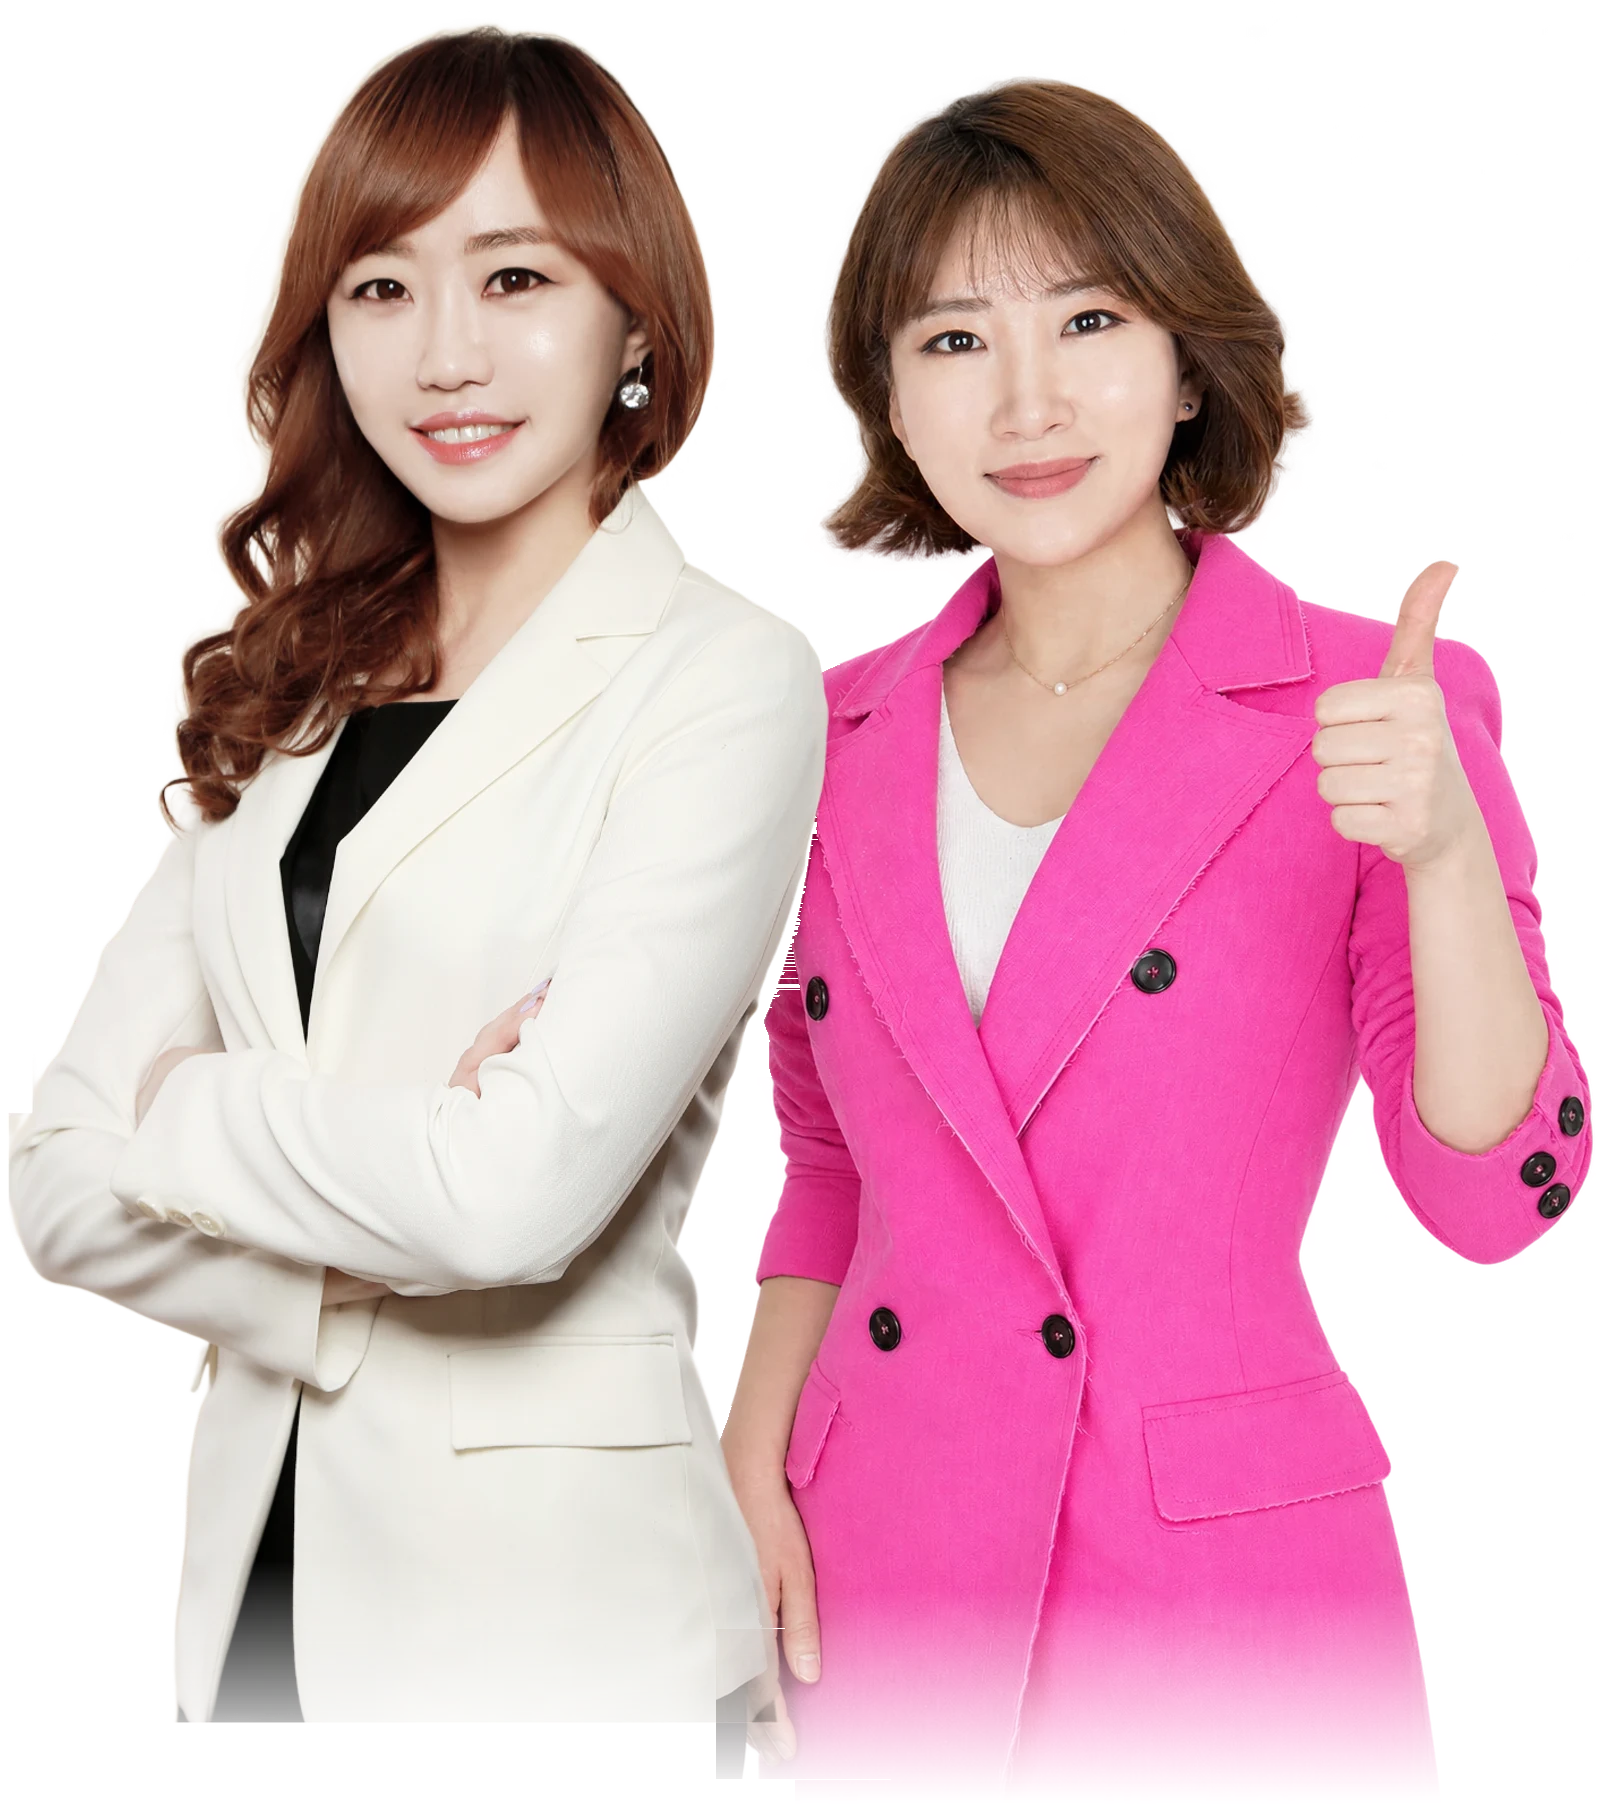
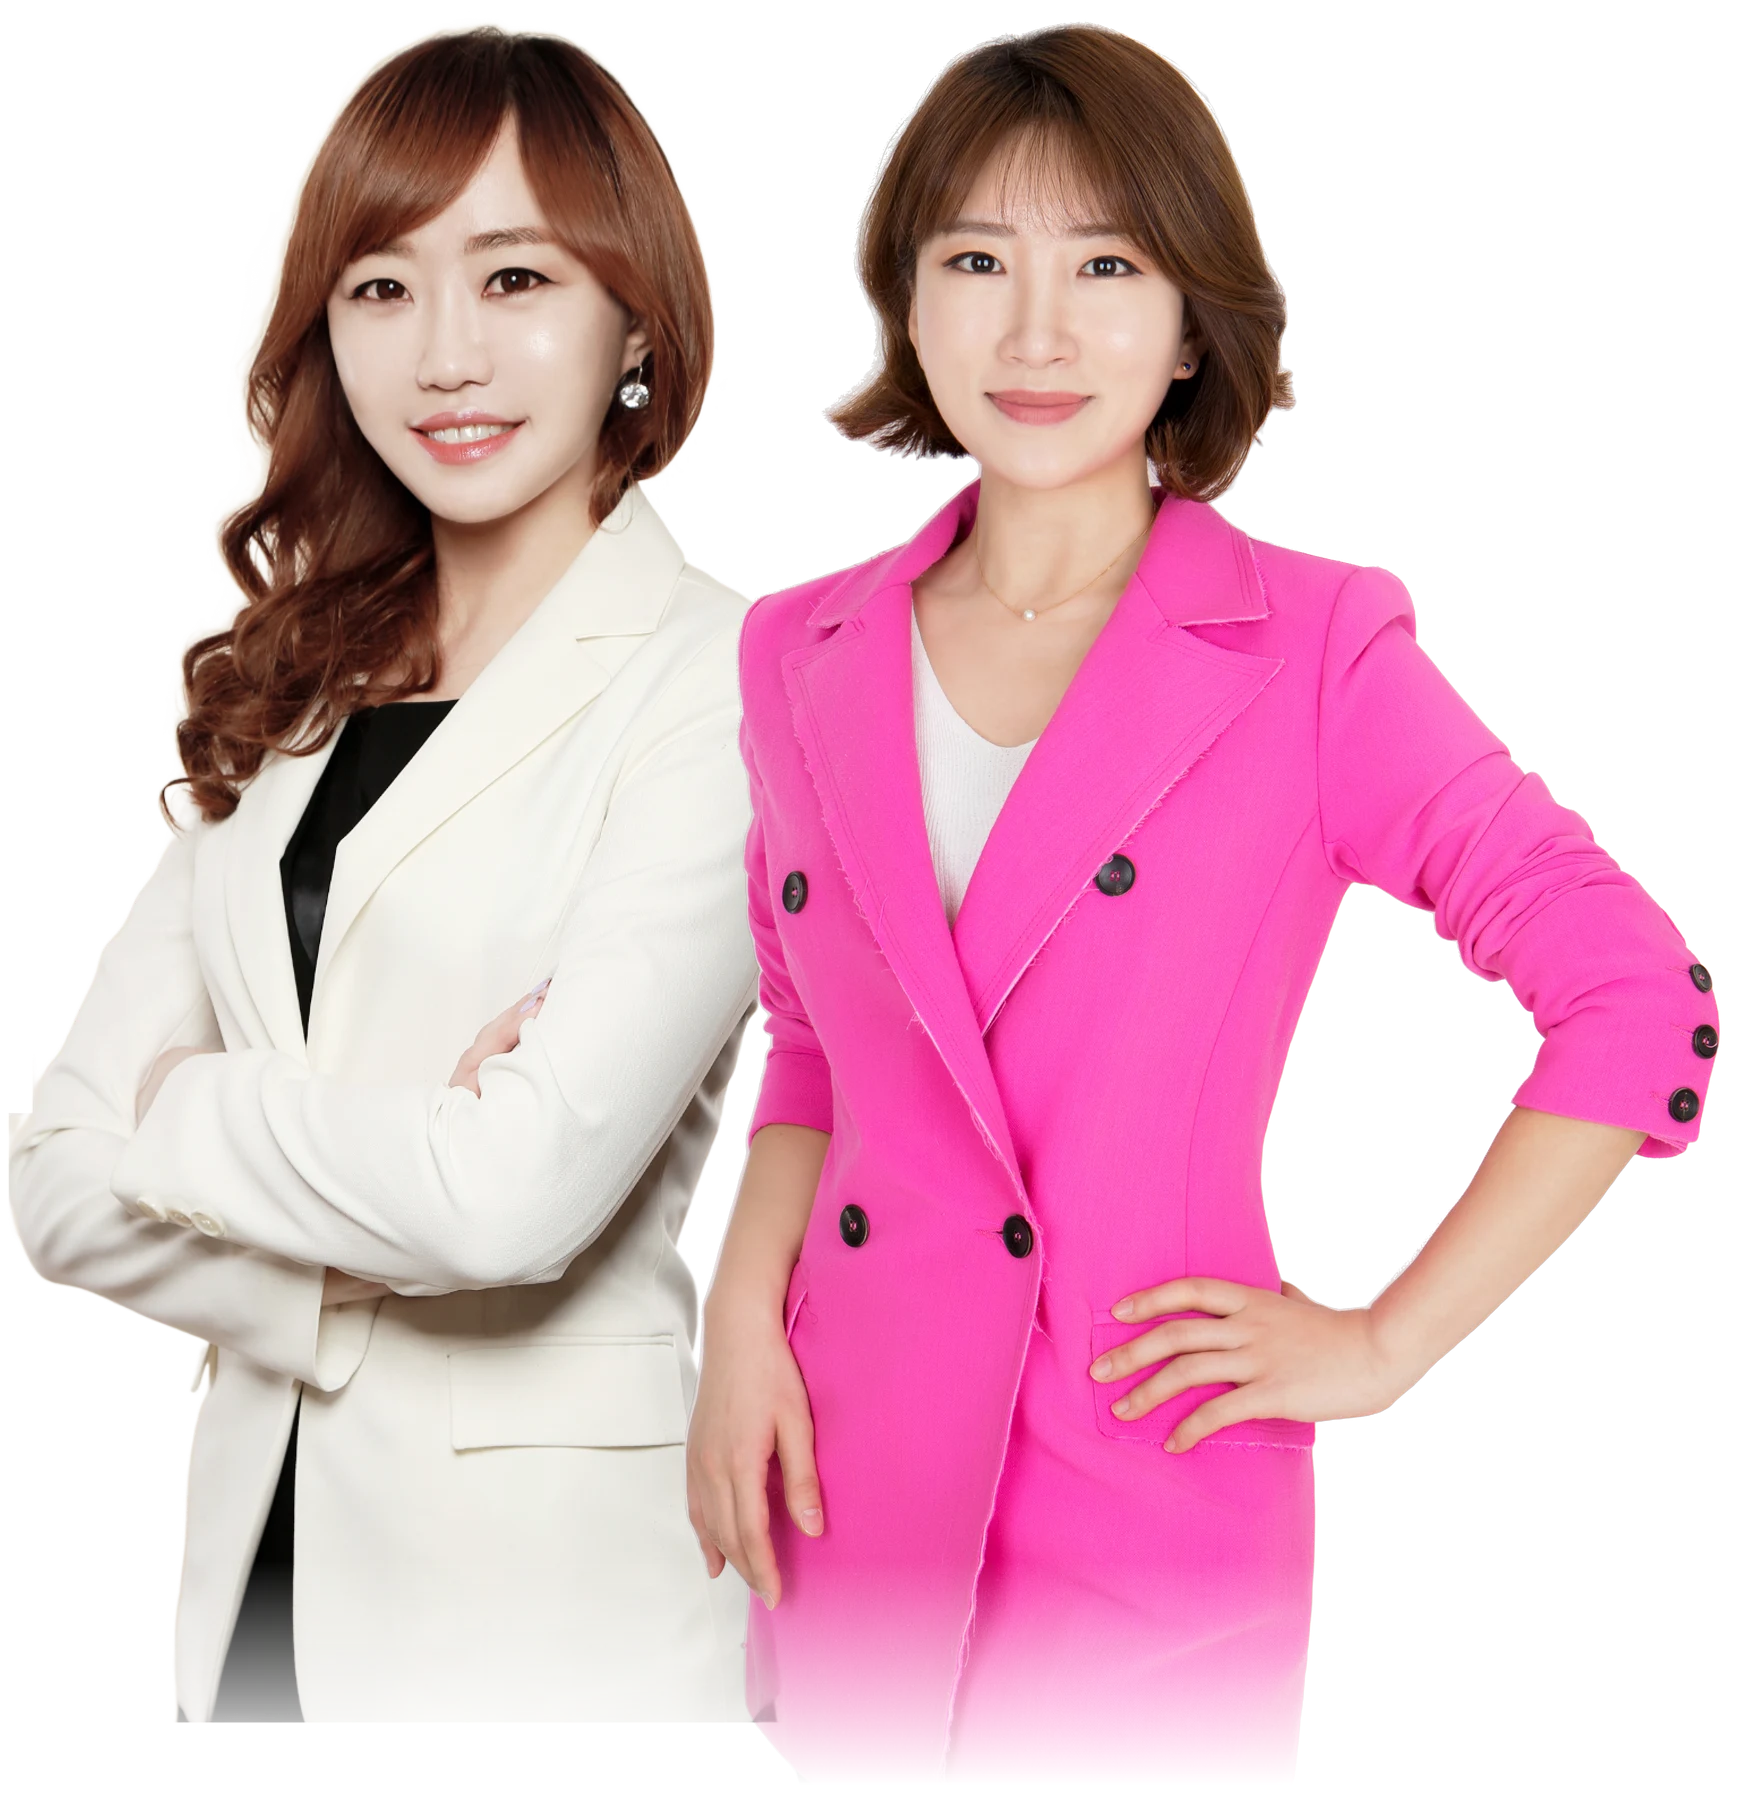
랜딩 히어로 두 분 모두 원본 실사로 + 강사 소개 학력 크게 · 수상 문구의 P어학원 삭제 (Alan 2026-10-01)
- 히어로 투샷: 이혜영(팔짱)·이영수(허리에 손) 강사프로필 원본을 머리 높이 445px 로 똑같이 맞춰 sharp 로 합쳤다 (1743×1806).
  참고 사진처럼 이영수가 오른쪽 살짝 앞. 이영수 누끼는 배경을 복원해 힉스필드 remove_background 로 다시 따고(결과가 줄어 나와
  AI 알파만 원본 크기로 키워 씌움), 가장자리의 흰 배경 몫을 빼 분홍 바탕에서 테두리가 안 남게 했다 → 강사프로필/이영수_누끼_2026-10-01.png.
  public/instructors/lee-yeongsu.png 도 같은 컷으로.
- 강사 소개: 학력 줄을 흰 알약(분홍 세로선, text-base/lg bold)으로 키웠다. 수상 문구 "P어학원 …" → 학원 이름 없이.
- CLAUDE.md 히어로·강사 소개 블록 갱신.

diff --git a/src/lib/site.ts b/src/lib/site.ts
@@ -79,7 +79,7 @@ export const site = {
    * 강사 소개 (2026-09-17 Alan 제공 — 소개 슬라이드 2장을 옮겨 적었다).
    * `tagline`·`education`·`years`·`highlights`·`awards` 가 랜딩 강사 소개의 설명 블록이 된다.
    * **문구는 Alan 이 준 그대로다.** 고친 것은 두 가지뿐 — 오타 `멤돈다` → `맴돈다`, 원본의 `**`(각주 표시, 각주 없음) 삭제.
-   * `P어학원` 은 원본 표기 그대로 (이전 학원 이름을 가린 것).
+   * 원본의 `P어학원`(이전 학원 이름을 가린 것)은 2026-10-01 Alan 요청으로 뺐다 — "최우수 강사 선정" 처럼 학원 이름 없이 적는다.
    */
   instructors: [
     {
@@ -102,7 +102,7 @@ export const site = {
           points: ["체계적인 반복으로 숨만 쉬고 있어도 점수가 오른다!", "토익 LC 만점 수강생이 인정한 압도적인 전달력과 몰입도 높은 강의"],
         },
       ],
-      awards: ["P어학원 최우수 강사 선정", "P어학원 수강생이 직접 뽑은 토익부문 최우수 강사 선정", "지인추천 압도적인 강사추천도"],
+      awards: ["최우수 강사 선정", "수강생이 직접 뽑은 토익부문 최우수 강사 선정", "지인추천 압도적인 강사추천도"],
       photo: { src: "/instructors/lee-hyeyoung.png", width: 827, height: 1500 },
       caricatures: [
         // point: 윙크하며 왼쪽을 가리킨다 — 출석 QR 포스터(QR 을 가리킴)와 랜딩 시간표 옆
@@ -130,7 +130,7 @@ export const site = {
           points: ["시험장에서 쌤 목소리가 귓가에 맴돈다!", "무엇을 버려야 하는지도 알려준다!", "수강생들이 인정한 미친 적중률을 자랑하는 강의"],
         },
       ],
-      awards: ["P어학원 최우수 강사 선정", "지인추천 압도적인 강사추천도"],
+      awards: ["최우수 강사 선정", "지인추천 압도적인 강사추천도"],
       photo: { src: "/instructors/lee-yeongsu.png", width: 1233, height: 1500 },
       caricatures: [
         // thumbsup: 엄지척 + 휴대폰 — 출석 QR 포스터(QR 을 찍음)와 랜딩 CTA 배너

diff --git a/src/components/landing/Hero.tsx b/src/components/landing/Hero.tsx
@@ -97,16 +97,16 @@ export function Hero() {
           </ul>
         </div>
 
-        {/* 두 강사 투샷. 왼쪽 이혜영은 **실제 사진 그대로**(2026-09-30 Alan — "왼쪽에 혜영쌤 이 사진으로 교체"),
-            오른쪽 이영수는 2026-09-17 힉스필드 투샷의 엄지척 컷을 그대로 두고 sharp 로 다시 합쳤다 — CLAUDE.md "히어로 강사 투샷".
-            여기만 실사이고 다른 강사 그림은 전부 캐리커처다 */}
+        {/* 두 강사 투샷 — **두 분 모두 강사프로필 원본 실사**(2026-10-01 Alan — "내가 준 원본 사진으로, 높이·얼굴 크기를 맞춰서").
+            머리 높이를 똑같이(445px) 맞춰 sharp 로 합쳤다. 왼쪽 이혜영 팔짱, 오른쪽 이영수 허리에 손 — 참고 사진의 구도.
+            CLAUDE.md "히어로 강사 투샷". 여기만 실사이고 다른 강사 그림은 전부 캐리커처다 */}
         <div className="relative mx-auto w-full max-w-md md:max-w-lg">
           <div aria-hidden className="absolute left-1/2 top-1/2 -z-10 h-64 w-64 -translate-x-1/2 -translate-y-1/2 rounded-full bg-brand-300/40 animate-pulse-ring" />
           <div aria-hidden className="absolute left-1/2 top-1/2 -z-10 h-64 w-64 -translate-x-1/2 -translate-y-1/2 rounded-full bg-brand-300/30 animate-pulse-ring" style={{ animationDelay: "1.2s" }} />
           <Image
             src="/illustrations/hero-instructors.webp"
             alt="역전토익 대표 강사 이혜영(LC)과 이영수(RC)"
-            width={1620}
+            width={1743}
             height={1806}
             priority
             sizes="(max-width: 768px) 90vw, 40vw"

diff --git a/src/components/landing/Instructors.tsx b/src/components/landing/Instructors.tsx
@@ -67,7 +67,11 @@ function Intro({ t, tone }: { t: Instructor; tone: (typeof TONE)[Instructor["par
       <h3 className="mt-4 text-2xl font-black leading-snug tracking-tight text-ink sm:text-3xl lg:text-[2.1rem]">
         <Tagline text={t.tagline} mark={t.taglineMark} />
       </h3>
-      <p className="mt-2 text-sm font-semibold text-slate">{t.education}</p>
+      {/* 학력 — 캐치프레이즈 바로 아래 또렷하게 (2026-10-01 Alan "학력이 눈에 안 띄어서 좀 더 크게"). 작은 회색 한 줄이었다 */}
+      <p className="mt-3 inline-flex items-center gap-2 rounded-xl border border-brand-100 bg-paper px-3.5 py-2 text-base font-bold text-ink shadow-soft sm:text-lg">
+        <span aria-hidden className="h-5 w-1 shrink-0 rounded-full bg-brand-500" />
+        {t.education}
+      </p>
 
       {/* 강점. 카드가 차례로 뜨고, 카드 안의 줄이 그 뒤를 잇는다 */}
       <div className="stagger mt-6 grid gap-3 sm:grid-cols-2">

diff --git a/CLAUDE.md b/CLAUDE.md
@@ -473,18 +473,20 @@ npx tsc --noEmit && npx eslint src && npx vitest run && npm run build
   - 움직임 셋: 메달이 한 번 튀어 오르고(`animate-pop`) · 메달 뒤 금빛 고리가 퍼지고(`animate-pulse-ring`) · 배지를 빛줄기가 3.6초마다 가로지른다(`.rank-sweep`, globals.css).
     움직임 줄이기면 빛줄기는 끈다. 빛줄기는 **시작 전에도 왼쪽 밖에 있어야** 흰 띠가 멈춰 보이지 않는다(기본 `transform`).
   - 같은 말이 **헤드라인 띠(`Spotlight` 의 `WORDS`)와 강점 카드(`Features`)** 에도 있다 — 문구를 바꾸면 세 곳을 같이 고칠 것
-- **히어로 강사 투샷** (2026-09-17 Alan — "저 여자 이미지 말고 우리 강사님 두분이 같이 있는 이미지로", 시안 3개 중 **시안 1** →
-  2026-09-30 Alan "왼쪽에 혜영쌤 이 사진으로 교체"). 랜딩 히어로 오른쪽은 **두 강사 투샷 컷** `public/illustrations/hero-instructors.webp`
-  (1620×1806, 투명 배경, 아래 12% 는 배경으로 녹아드는 페이드) 다. **왼쪽 이혜영은 실제 사진 그대로**(강사프로필 `이혜영.png`, 팔짱 컷)이고
-  **오른쪽 이영수는 2026-09-17 힉스필드 투샷(`gpt_image_2_5` · 원본 두 장 `image_references`)의 엄지척 컷**을 남긴 것이다 —
-  AI 가 그린 이혜영 얼굴이 실물과 달라 Alan 이 실사로 바꿨다. **다시 만들 때 이혜영을 AI 로 그리지 말 것** — 실사를 쓰라는 것이 요점이다.
-  **원본 `이혜영.png` 의 누끼는 그대로 쓰지 않는다** (같은 날 Alan "머리카락 누끼가 제대로 안 따져서 이상하게 나와") — 원본 컷은 머리 가장자리가
-  12~16px 흐릿하고 흰색과 섞여 있어 분홍 바탕에서 테두리가 생긴다. 원본 PNG 의 알파 0 영역에 스튜디오 배경 픽셀이 남아 있어 알파를 버려 사진을 되살린 뒤
-  힉스필드 `remove_background` 로 다시 땄다 → `강사프로필/이혜영_누끼_2026-09-30.png` (같은 1200×1563 틀). `public/instructors/lee-hyeyoung.png` 도 이 컷으로 다시 맞췄다.
-  sharp 로 합쳤다: 옛 투샷에서 줄마다 이영수 층을 뽑고 — 두 사람 사이 **30px 이상의 투명 틈**의 가운데를 경계로 하되 **틈이 오른쪽 끝까지 열린 줄(두 머리 위쪽)도 틈으로 친다**
-  (안 그러면 머리카락 사이 미세한 빈틈을 경계로 잡아 옛 AI 머리 조각이 정수리에 남는다 — 첫 배포 688fb35 에서 실제로 그랬다), 틈이 없는 줄은 첫 분홍 픽셀(이영수 재킷) —
-  새 누끼 이혜영을 머리 크기(393→445px)·얼굴 중심(x 470)에 맞춰 **앞에** 얹은 뒤 같은 구간(y 1560→1785)을 페이드했다. 이영수는 20px 오른쪽으로 밀어 어깨가 살짝 겹친다.
-  확인은 이영수 층에 x<650 불투명 픽셀이 0 이어야 하고, 정수리·머리끝을 연분홍 위에 확대해 본다.
+- **히어로 강사 투샷** (2026-09-17 Alan — "저 여자 이미지 말고 우리 강사님 두분이 같이 있는 이미지로" → 2026-09-30 "왼쪽에 혜영쌤 이 사진으로 교체" →
+  **2026-10-01 "내가 준 원본 사진으로. 높이를 맞추고 얼굴 크기도 똑같이. 영수쌤 프로필을 약간 키워야 사람 비율이 맞다"** + 참고 사진 `바탕 화면/KakaoTalk_20261001_095112275.png`).
+  랜딩 히어로 오른쪽은 **두 강사 투샷 컷** `public/illustrations/hero-instructors.webp`(1743×1806, 투명 배경, 아래 12% 는 배경으로 녹아드는 페이드)이고
+  **두 분 모두 강사프로필 원본 실사**다 — 왼쪽 이혜영 팔짱(`이혜영.png`), 오른쪽 이영수 허리에 손(`이영수_핑크.png`), 이영수가 살짝 앞.
+  (2026-09-17~30 에는 힉스필드가 그린 AI 투샷 → 왼쪽만 실사 순으로 거쳐 왔다. **다시 만들 때 두 분을 AI 로 그리지 말 것** — 실사를 쓰라는 것이 요점이다.)
+  - **원본 누끼는 그대로 쓰지 않는다** (2026-09-30 Alan "머리카락 누끼가 제대로 안 따져서 이상하게 나와") — 원본 컷은 머리 가장자리가 흐릿하고 흰색과 섞여
+    분홍 바탕에서 테두리가 생긴다. 원본 PNG 의 알파 0 영역에 스튜디오 배경 픽셀이 남아 있어 **알파를 버려 사진을 되살린 뒤 힉스필드 `remove_background` 로 다시 땄다**.
+    이혜영은 결과를 그대로(`강사프로필/이혜영_누끼_2026-09-30.png`, 1200×1563), **이영수는 원본이 3340×5010 이라 결과가 1365×2047 로 줄어 나오므로
+    AI 알파만 원본 크기로 키워 원본 RGB 에 씌우고, 반투명 가장자리 색에서 흰 배경 몫을 뺐다**(un-blend `C = (Cobs − (1−a)·B)/a`, B = 246·244·244 —
+    안 빼면 머리 둘레에 흰 실선이 남는다) → `강사프로필/이영수_누끼_2026-10-01.png`. `public/instructors/lee-{hyeyoung,yeongsu}.png` 도 이 컷으로 다시 맞췄다.
+  - 합치기(`tmp/hero2.cjs` 레시피): 두 컷을 **머리 높이(머리끝→턱)가 똑같이 445px** 이 되게 각각 줄이고(이혜영 393→445 = 1.132배 · 이영수 930→445 = 0.478배 —
+    실측 머리끝/턱/얼굴중심: 이혜영 66/459/591, 이영수 487/1417/1508), 머리끝을 같은 높이(y 28)에 맞춘다. 이혜영 얼굴 중심 x 470, 이영수는 몸통 줄(y 650~1400)에서
+    이혜영 오른쪽 끝보다 **90px 안쪽**까지 겹치게 두고 **앞에** 얹는다. 둘 다 같은 구간(y 1560→1785)을 페이드. 캔버스 폭은 오른쪽 끝 + 24.
+  - 확인은 정수리·머리끝을 연분홍·진분홍 위에 확대해 본다 (흰 테두리 · 톱니 · 떨어진 조각).
   **사이트에서 실사 강사 그림은 여기와 랜딩 강사 소개 카드 두 곳이다** — 나머지는 캐리커처 (아래 "강사 캐리커처").
   `이번 달 목표` 카드는 **왼쪽 아래**(페이드로 녹아드는 자리)에 둔다 — 두 분이 그림을 가득 채워 위쪽에 두면 머리를 가린다.
   힉스필드 결과 CDN(`d8j0ntlcm91z4.cloudfront.net`)은 세션에 따라 막혀 있기도 하다 — 2026-09-17 세션은 막혀 Alan 이 첨부해 줬고, 2026-09-30 세션은 받아졌다
@@ -499,8 +501,10 @@ npx tsc --noEmit && npx eslint src && npx vitest run && npm run build
   **강사마다 한 줄 = 실사 사진 카드(`site.instructors[].photo`) + 소개 블록**이고, 카드가 왼쪽·오른쪽으로 번갈아 선다 (lg 이상. 좁으면 카드 → 소개 세로).
   **캐리커처로 바꾸지 말 것** (2026-09-30 Alan — 위 "강사 사진").
   문구는 전부 `site.instructors[]` 의 `tagline`·`taglineMark`·`education`·`years`·`highlights`·`awards` 에서 읽는다 —
-  **Alan 이 준 그대로**이고 고친 것은 오타 `멤돈다`→`맴돈다` 와 원본의 `**`(각주 표시인데 각주가 없다) 삭제뿐. `P어학원` 은 원본 표기 그대로.
-  블록은 위에서부터 **칩(담당·경력) → 캐치프레이즈 → 학력 → 강점 두 카드 → 수상 알약**. 스크롤로 들어오면 네 가지가 움직인다:
+  **Alan 이 준 그대로**이고 고친 것은 오타 `멤돈다`→`맴돈다` 와 원본의 `**`(각주 표시인데 각주가 없다) 삭제, 그리고 **수상 문구의 `P어학원` 삭제**
+  (2026-10-01 Alan "P어학원이라는 글자는 삭제해줘" — 이전 학원 이름을 가린 표기였다. `최우수 강사 선정` 처럼 학원 이름 없이 적는다)뿐.
+  블록은 위에서부터 **칩(담당·경력) → 캐치프레이즈 → 학력 → 강점 두 카드 → 수상 알약**.
+  **학력은 또렷하게** (2026-10-01 Alan "학력이 눈에 안 띄어서 좀 더 크게") — 작은 회색 한 줄이 아니라 흰 바탕에 분홍 세로선을 단 알약(`text-base sm:text-lg font-bold text-ink`). 스크롤로 들어오면 네 가지가 움직인다:
   ① 캐치프레이즈의 강조어(`taglineMark`) 밑에 **형광펜이 왼쪽에서 그어진다** (`.mark-sweep`, globals.css),
   ② 경력 햇수가 **세어 올라간다** (`CountUp`), ③ 강점 카드 → 그 안의 줄 → 수상 알약이 **차례로 뜬다** (`.stagger` + 자식마다 inline `transition-delay`),
   ④ 사진 카드는 그대로 `Reveal`. ①③ 은 `.reveal.is-visible` 에 묶여 있어 **Reveal 없이 쓰면 영영 안 보인다** — 반드시 `Reveal` 안에 둘 것.
